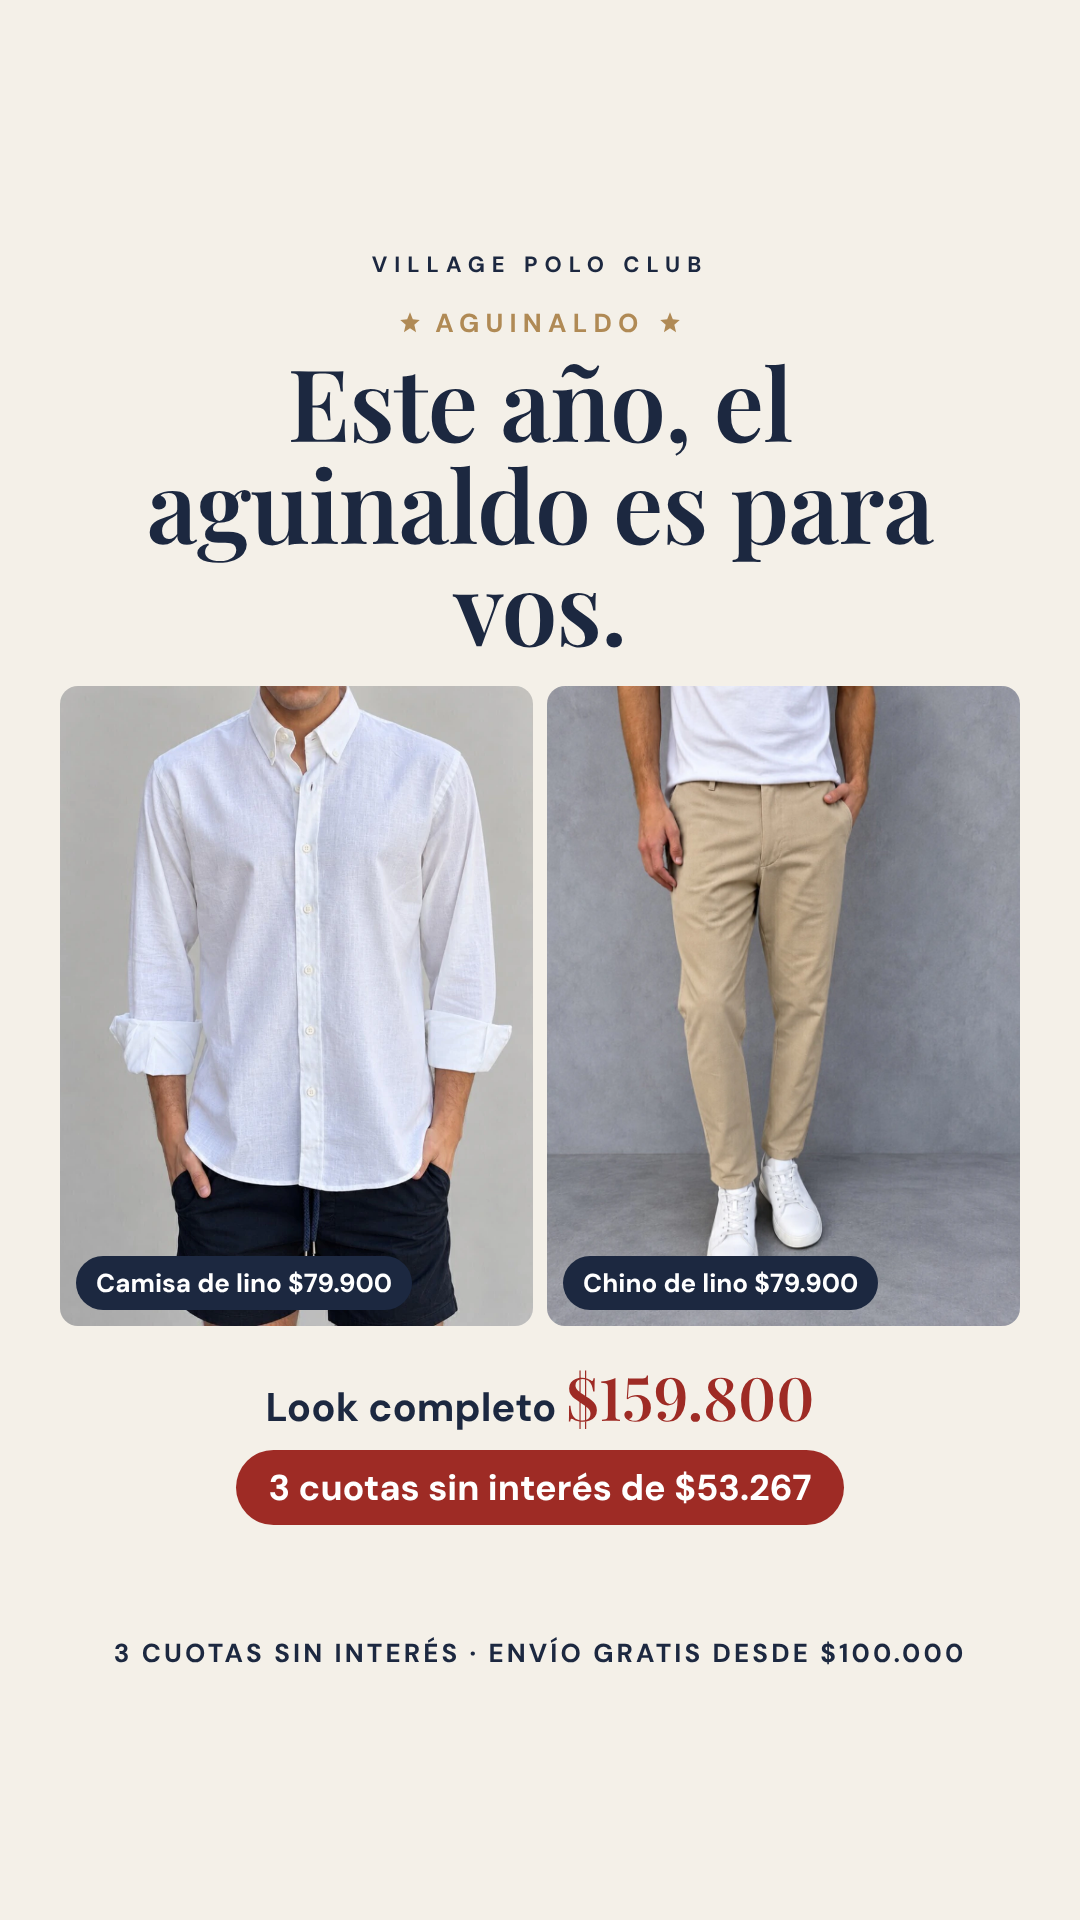
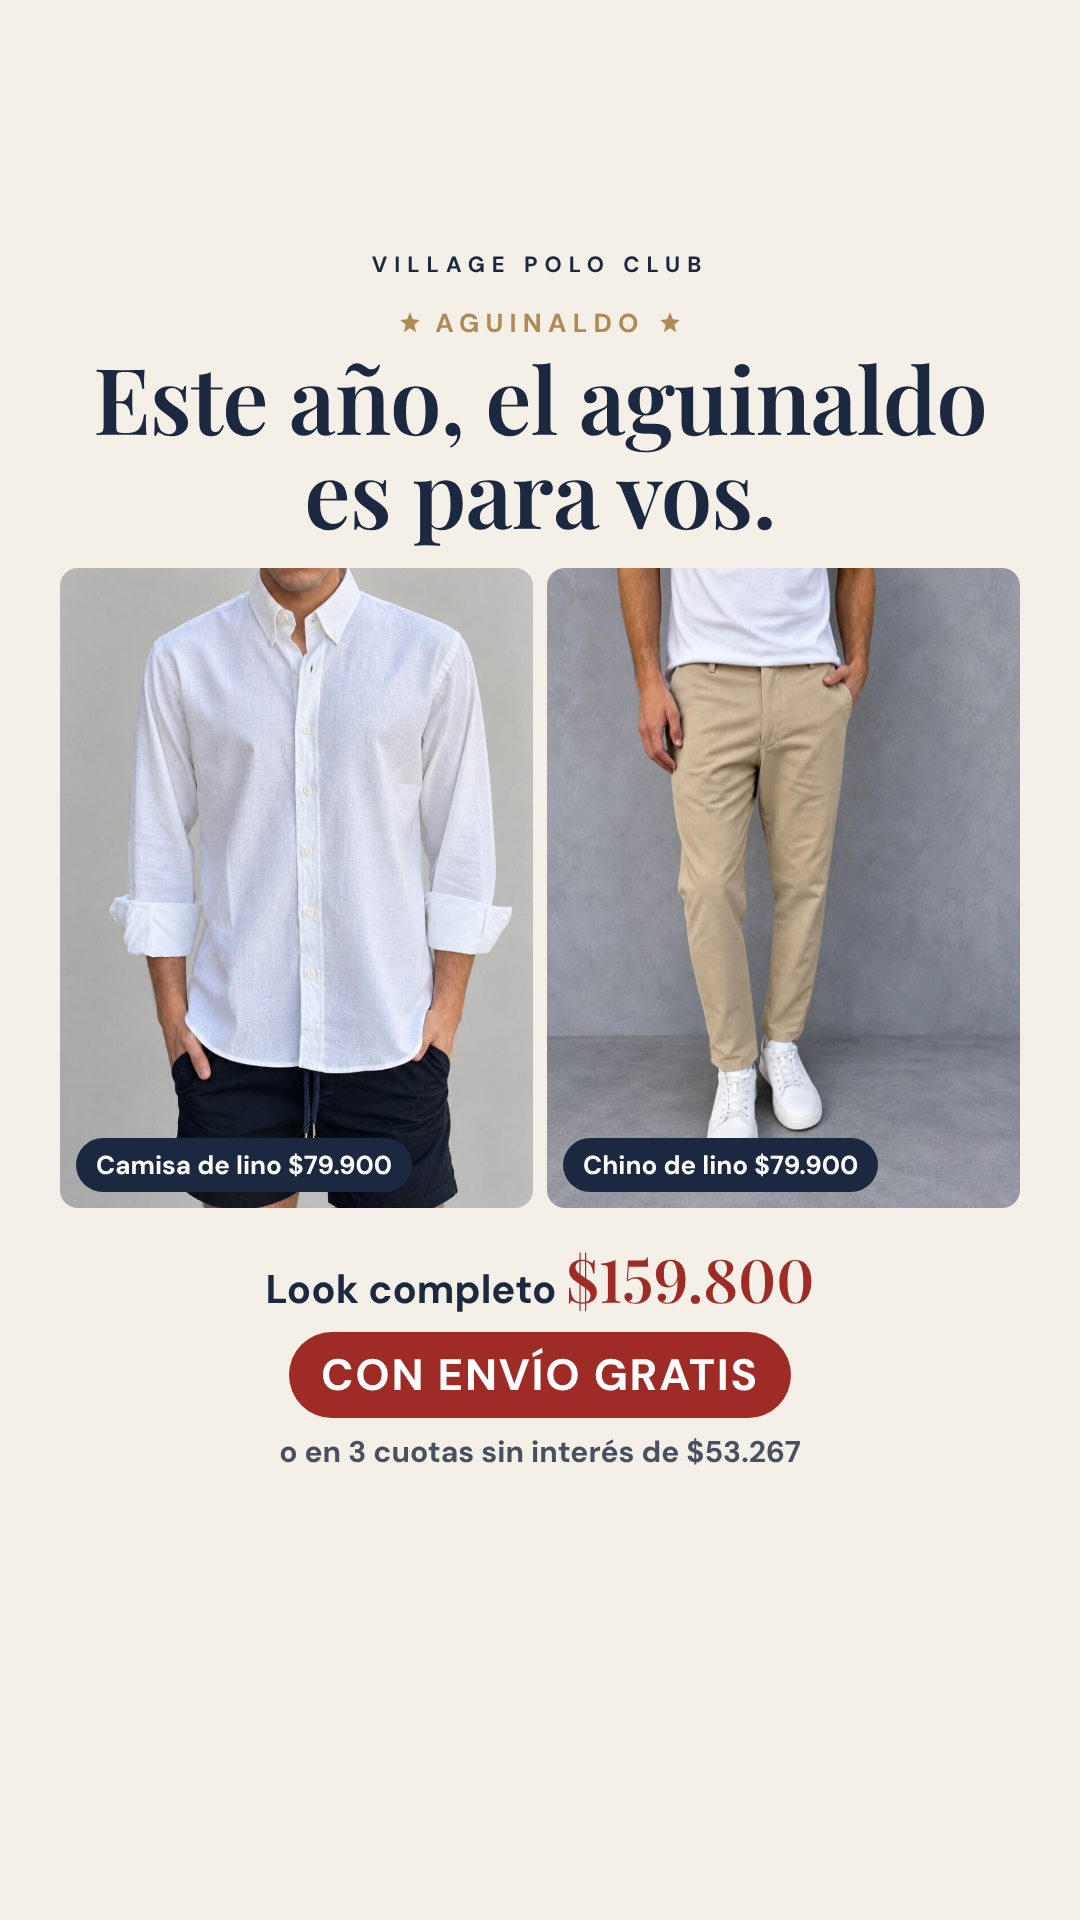
Village: F9 aguinaldo con envío gratis destacado; F8 guía de regalos descartada
Claude-Session: https://claude.ai/code/session_01BwB1NJ45564dBMrvfqcTE9

diff --git a/village-polo-club/placas/fiestas/fuente/fiestas.py b/village-polo-club/placas/fiestas/fuente/fiestas.py
@@ -22,14 +22,15 @@ def f9(fmt):
     W,H=(1080,1350) if fmt=='feed' else (1080,1920); st=fmt!='feed'; top=250 if st else 70
     gh=560 if not st else 640
     body=f"""{head(top)}<div style="position:absolute;top:{top+56}px;left:60px;right:60px;text-align:center">
-<div class="ey3">{STAR} Aguinaldo {STAR}</div><h1 style="font-size:{96 if not st else 100}px;margin:10px 0 30px">Este año, el aguinaldo es para vos.</h1>
+<div class="ey3">{STAR} Aguinaldo {STAR}</div><h1 style="font-size:{96 if not st else 92}px;margin:10px 0 30px">Este año, el aguinaldo es para vos.</h1>
 <div style="display:grid;grid-template-columns:1fr 1fr;gap:14px;height:{gh}px">
 <div class="box"><img class="ph" src="camisa-lino-algodon-blanco-1.webp" style="object-view-box:inset(22% 6% 0 6%)"><span class="tag">Camisa de lino $79.900</span></div>
 <div class="box"><img class="ph" src="pantalon-chino-lino-camel-claro-1.webp"><span class="tag">Chino de lino $79.900</span></div></div>
-<div class="tot">Look completo <b>$159.800</b></div><div class="cuo">3 cuotas sin interés de <b>$53.267</b></div></div>{foot(top)}"""
+<div class="tot">Look completo <b>$159.800</b></div><div class="cuo">CON ENVÍO GRATIS</div><div class="cu2">o en 3 cuotas sin interés de $53.267</div></div>"""
     extra=BASE+f""".tag{{position:absolute;left:16px;bottom:16px;background:{NAVY};color:#fff;font-weight:700;font-size:26px;padding:10px 20px;border-radius:40px}}
 .tot{{font-size:40px;font-weight:700;color:{NAVY};margin-top:30px}}.tot b{{font-family:'PF';font-size:60px;color:{RED}}}
-.cuo{{display:inline-block;margin-top:14px;background:{RED};color:#fff;font-size:36px;font-weight:700;padding:14px 32px;border-radius:60px}}"""
+.cu2{{font-size:30px;font-weight:700;color:{NAVY};margin-top:14px;opacity:.8}}
+.cuo{{display:inline-block;margin-top:14px;background:{RED};color:#fff;font-size:44px;letter-spacing:.04em;font-weight:700;padding:14px 32px;border-radius:60px}}"""
     return page(W,H,body,extra)
 BOT='<svg width="200" height="240" viewBox="0 0 40 64"><path d="M16 2h8v14c0 3 6 6 6 14v30a2 2 0 0 1-2 2H12a2 2 0 0 1-2-2V30c0-8 6-11 6-14z" fill="none" stroke="#f0d3a5" stroke-width="2"/><rect x="12" y="34" width="16" height="14" fill="none" stroke="#f0d3a5" stroke-width="1.5"/></svg>'
 def f11(fmt):
